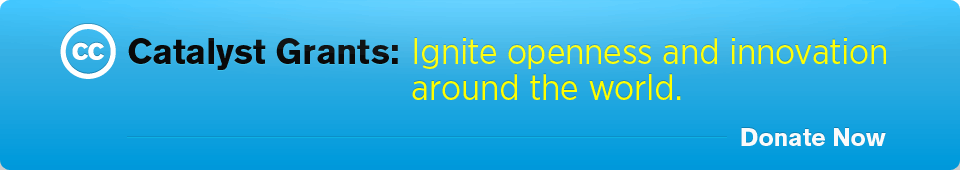
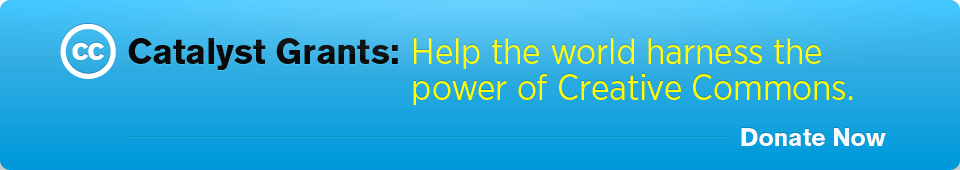
Merged revisions 14501-14502 via svnmerge from svn+ssh://svn@code.creativecommons.org/svnroot/ccwordpress/trunk
........
  r14501 | bse | 2010-06-08 22:42:45 +0000 (Tue, 08 Jun 2010) | 1 line
  
  Week 2 banner update
........
  r14502 | bse | 2010-06-08 22:43:52 +0000 (Tue, 08 Jun 2010) | 1 line
  
  Week 2 global banner text
........

Changed region(s): [[0.4062, 0.2059, 0.9375, 0.4118], [0.4062, 0.4118, 0.9062, 0.5882]]

diff --git a/www/wp-content/themes/cc5/site.js b/www/wp-content/themes/cc5/site.js
@@ -4,7 +4,7 @@ function thundercats() {
     var d = document.createElement("div");
     var mainContent = document.getElementById("globalWrapper");
     d.setAttribute('style', 'font-size: 22px; font-family: "helvetica neue", arial, sans-serif; line-height:1; text-shadow: 0 1px 0 #45c5ea; color: #ffff00; padding: 12px 0; border-bottom: 1px solid rgb(120, 159, 44); margin-top: -1px; background: #35afe3; z-index:1000;');
-    d.innerHTML = '<a href="http://creativecommons.org/catalyst/" style="color:#ffff00; text-decoration:none;"><strong><span style="color:#000">Catalyst Grants:</span> <span style="text-shadow: 0 -1px 0 #258ab9">Ignite openness and innovation around the world.</span></strong> <span style="color:#000">&mdash; Donate Now</span></a>';
+    d.innerHTML = '<a href="http://creativecommons.org/catalyst/" style="color:#ffff00; text-decoration:none;"><strong><span style="color:#000">Catalyst Grants:</span> <span style="text-shadow: 0 -1px 0 #258ab9">Help the world harness the power of Creative Commons.</span></strong> <span style="color:#000">&mdash; Donate Now</span></a>';
     mainContent.parentNode.insertBefore(d, mainContent);
 }
 
